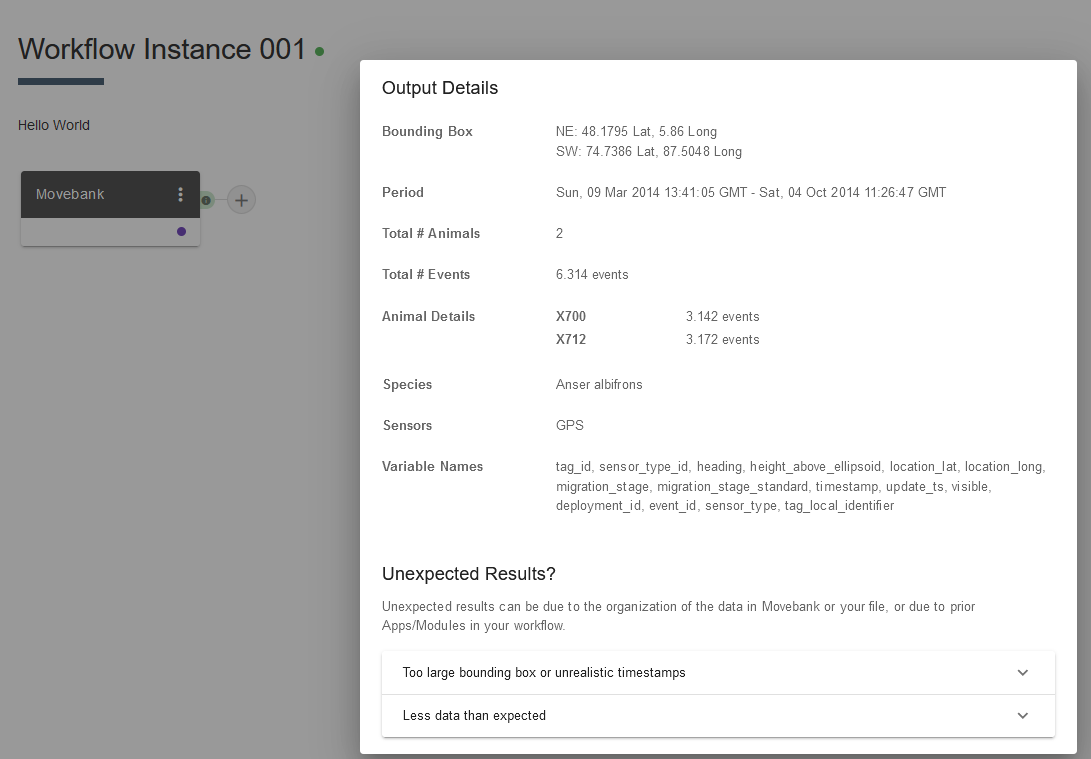
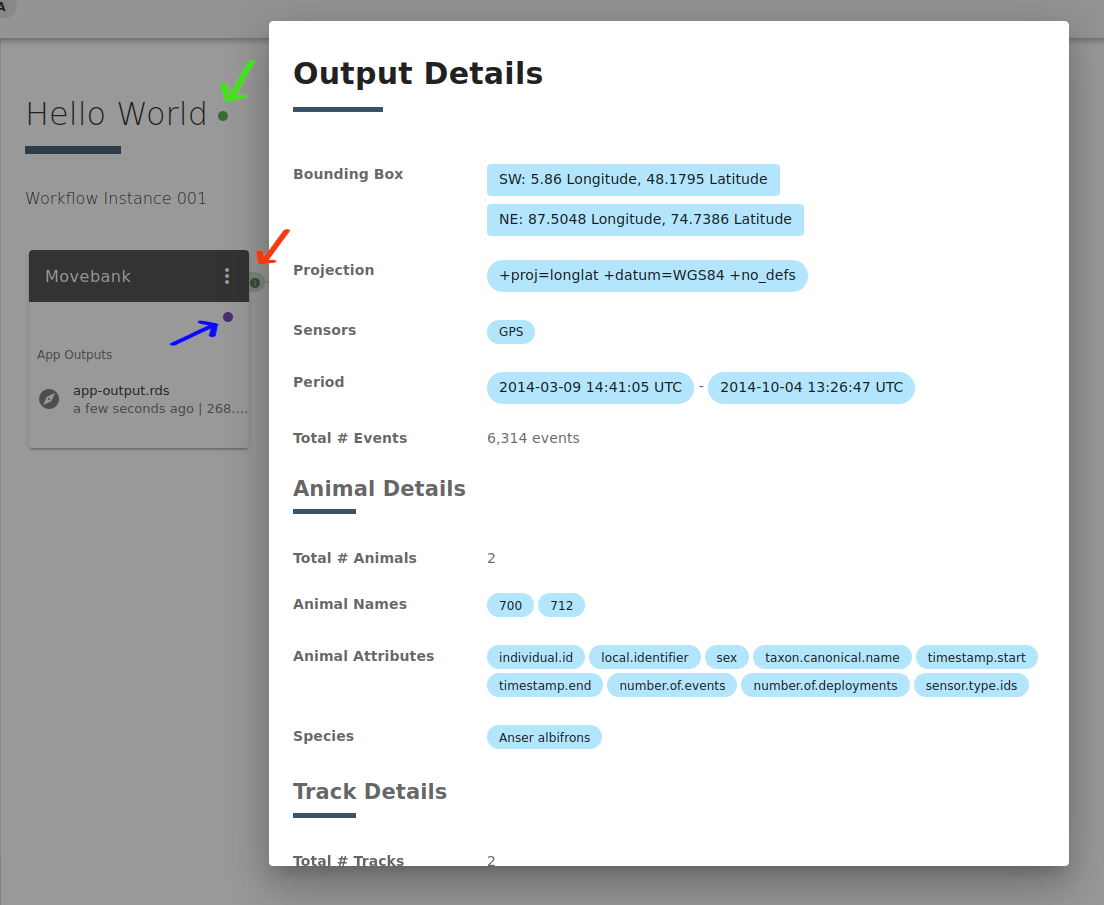
updating workflow manuals

Changed region(s): [[0.0, 0.0, 0.9973, 1.0], [0.0312, 0.3636, 0.0935, 0.3939], [0.1558, 0.3636, 0.187, 0.3939]]

diff --git a/create_workflow.md b/create_workflow.md
@@ -1,4 +1,4 @@
-# How to compile a Workflow
+# How to create a Workflow
 
 ![](../files/Workflow_example.png)
 
@@ -6,22 +6,22 @@ Within MoveApps, existing Apps can be combined into a Workflow, allowing you to 
 
 Every Workflow starts with an App that loads data into the system (e.g. from [Movebank](www.movebank.org) or Dropbox). The data are then passed on to the next App (in the appropriate format) and analysed by it accordingly. Every App requires a defined input type (presently only MOVEMENT (R move:moveStack) data: positions with date-timestamps and animal ID) and can pass on output of a defined type (presently MOVEMENT) or ends in an interactive UI (R-Shiny). 
 
-Some Apps produce output products, which can be downloaded as files, in formats such as .pdf or .csv. Movement output data can also be downloaded (in R format .rds).
+Some Apps produce output products, which can be downloaded as files, in formats such as .pdf or .csv. Movement output data can also be downloaded as a object of class `move::MoveStack' in R format .rds.
 
 ## Create a new Workflow
-From the main menu, select `Workflows` and then `Create New Workflow`. After providing a name for the Workflow, you will be asked to select a Data Source. Now choose to retreive data from either Movebank or your personal cloud storage on Google Drive or Dropbox. For the latter option the data have to be provided as MoveStacks in `.rds` format for R. Both Data Sources require that you specify parameters and settings. After providing these, the Workflow area with the initial App appears (see Figure below). Note that additional Data Sources can be downloaded by adding e.g. another instance of the Movebank download App (see below). All data sets will be combined, thus allowing the joined analysis of data from e.g. different Movebank studies.
+From the main menu, select `Workflows` and then `Create New Workflow`. After providing a name for the Workflow, you will be asked to select a Data Source. Now choose to retrieve data from either Movebank or your personal cloud storage on Google Drive or Dropbox. For the latter option the data have to be provided as a R object of class 'move::MoveStacks' saved as in a `.rds` format. Both Data Sources require that you specify parameters and settings. After providing these, the Workflow area with the initial App appears (see Figure below). Note that additional Data Sources can be downloaded by adding e.g. another instance of the Movebank download App (see below). All data sets will be combined, thus allowing the joined analysis of data from e.g. different Movebank studies.
 
 ![](../files/Workflow_movebank.png)
 
 ## Add Apps to a Workflow
-By clicking on the “+” to the rigth of an App, you can browse, search and select the next App to add to your Workflow for filtering, analysis or visualisation of the downloaded data. You can also insert Apps within the Workflow if they are compatible with the required input and output types (usually input: MOVEMENT and output: MOVEMENT). The list of Apps to choose from will only include those that comply with the required input and output types for the specific position in your Workflow. In the list of available Apps, you can see the descriptions of each App and can read additional information by clicking on “Details”. On the top right-hand corner, the list can be filtered by keywords.
+By clicking on the “+” to the right of an App, you can browse, search and select the next App to add to your Workflow for filtering, analysis or visualisation of the downloaded data. You can also insert Apps within the Workflow if they are compatible with the required input and output types (usually input: MOVEMENT and output: MOVEMENT). The list of Apps to choose from will only include those that comply with the required input and output types for the specific position in your Workflow. In the list of available Apps, you can see the descriptions of each App and can read additional information by clicking on “Details”. On the top right-hand corner, the list can be filtered by keywords.
 
 ![](../files/Workflow_addApp.png)
 
 ## Run the workflow
-Select `Start Workflow` to begin running the Apps within a Workflow in the order that you have arranged them. You can follow the progress of the Workflow by the change in colour of the action point in the bottom right of each App container. Note that there is not indication yet, when the workflow is finished, but the output files have become available.
+Select `Start Workflow` to begin running the Apps within a Workflow in the order that you have arranged them. You can follow the progress of the Workflow by the change in colour of the action point in the bottom right of each App container. On the right side of the Workflow name there is also a action point which will indicate if the workflow instance is "running" or "stopped". Note that if the workflow contains a Shiny App its status will always be "running", also after finishing, in order to allow the interaction with the App UI.
 
-The Workflow continues running even if you leave the site moveapps.org, and results can be looked up and downloaded later. Select `Rerun` or `Stop workflow` to interrupt the run of the Workflow. Each Workflow can also be [scheduled to run](scheduled_runs.md) regularely in an automatic mode at a fixed date and time. This option (`Schedule Instance`) can be selected in the menu next to `Start Workflow`.
+The Workflow continues running even if you leave the site moveapps.org, and results can be looked up and downloaded later. Select `Rerun` or `Stop workflow` to interrupt the run of the Workflow. Each Workflow can also be [scheduled to run](scheduled_runs.md) regularly in an automatic mode at a fixed date and time. This option (`Schedule Instance`) can be selected in the menu next to `Output`.
 
 
 ![](../files/Workflow_menu.png)
@@ -29,7 +29,7 @@ The Workflow continues running even if you leave the site moveapps.org, and resu
 ## Menus, Settings and Error logs
 There is a menu on the right of each App container in a Workflow. The R-Apps include the following options:
 
-	- Settings:  View or change App parameters.
+	- Settings: View or change App parameters.
 	- App Details: View all information and details about the App
 	- Pin to this App: By pinning the Workflow to an App, you will retain the results of this App and all Apps preceding it in the Workflow, so that only subsequent Apps are re-executed when you re-run the Workflow. The App you pinned and all preceding Apps are underlaid in grey. Note that Shiny-Apps close the running UI if pinned, but retain the output data. The `Pin` can be removed any time by clicking on `unpin` below in the greyed out area.
 	- Update App: If a new version of the App is available it can be updated here.
@@ -40,7 +40,7 @@ There is a menu on the right of each App container in a Workflow. The R-Apps inc
 ![](../files/App_Pin.png)
 
 ## Output download menu
-Next to the Run Workflow button, you can access all output files that the Workflow is generating. The .rds data output files of each App can be downloaded separately as well as all by the Apps created productss. In case of one or more .pdf products, it is also possible to download a bundled pdf, unsecured or as encrypted file for sensitive tracking data (see buttons on top right).
+The `Output` button gives you access to all output files that the Workflow is generating. The .rds data output files of each App can be downloaded separately as well as all the created products by the Apps. In case of one or more .pdf products, it is also possible to download a bundled pdf, unsecured or as encrypted file for sensitive tracking data (see buttons on top right).
 
 Note that it is possible to select products from Apps for inclusion in E-mail attachments (see [scheduling](scheduled_runs.md)). At the top of the page, you can access our [API service](scheduled_runs.md#Access) that allows to create a stable http link to any of the products created by the workflow.
 
@@ -48,20 +48,27 @@ Note that it is possible to select products from Apps for inclusion in E-mail at
 ![](../files/output_save_view.png)
 
 ## Data overview of App output
-Each App that returns data creates a short summary of the output data, which can be accessed via the green info button that appears on the right side of the App container. This summary includes the bounding box and time range of the positions as well as the number of animals, the total number of positions (events) and the number of positions for each individual animal. It provides a list of the animals' species and tag sensors. Finally, the names of all available data variables (that provide any non-empty data) are listed. Note the seciong "Unexpected Results?" at the bottom that provides helpful comments if errors occur.
+Each App that returns data creates a summary of the output data, which can be accessed via the green info button that appears on the right side of the App container. This summary includes the bounding box, projection, sensors and time range of the data as well as the total number positions (events). There is one section about the animal details including the animal names ant the available attributes associated to the individuals, and another section about the track details including the locations per track and available attributes associated to each location of the tracks. Note the section "Unexpected Results?" at the bottom that provides helpful comments if errors occur.
 
 ![](../files/CargoAgent_Overview.png)
 
 ## Shiny R and User Interfaces
-For R-Shiny Apps that return User Interfaces (UI), the UI can be accessed after the run of the Workflow via `Open Results` or via `Shiny UI` in the App menu. There, you can examine results and edit settings, depending on the options that the App developer has programmed. There are also R-Shiny Apps that have output data (Movement) and the UI is used e.g. to filter the data. For such Apps, the UI can only be accessed via `Shiny UI` in the App menu.
+For R-Shiny Apps that return User Interfaces (UI), the UI can be accessed after the run of the Workflow via `Open App UI`. There, you can examine results and edit settings, depending on the options that the App developer has programmed. On the bottom left corner of each Shiny App the button `Store configuraton` will store the current settings of the app for future workflow runs. **NOTE: currently the `Store configuration` option is not available or working for all Shiny Apps. We are working on fixing this issue.**
 
 ![](../files/App_menu_shiny.png)
 
 ## Workflow Instances
 Each Workflow can be run and saved in several Instances, allowing you to combine the same Apps in the same order, but with different settings. It is important to note that changes in the selection and order of Apps (not their settings) in one Workflow Instance will be applied to all other Instances of the Workflow.
 
-Every additional Workflow Instance must be initialised in the Workflow overview (via the main menu) of the respective Workflow by clicking `Start new Instance`. In the menu of each Instance you can adapt the description of the Workflow (`Edit Workflow Instance Details`) and the Instance can be deleted. 
+Every additional Workflow Instance must be initialised in the Workflow overview (via the main menu) of the respective Workflow by clicking `Start new Instance`. In the menu of each Instance you can adapt the description of the Workflow (`Edit Instance`) and the Instance can be deleted. 
+
+Once a Instance of a Workflow is opened, one can switch between all instances of the workflow through the menu on the top left side. To select another Workflow, use the button `Workflows`.
+
+![](../files/Workflow_Instance.png)
+
+## Organizing Workflows
+Workflows can be grouped by assigning them a category name. If no category is assigned, they will appear under "Uncategorized". At any time categories, workflows and instances can be edited, and workflows can be shared or published via the Workflow overview page.
+
 
 ![](../files/Workflow_start.png)
-
 

diff --git a/hello_world_workflow.md b/hello_world_workflow.md
@@ -3,7 +3,7 @@
 Please follow the instructions below and create your first running Workflow on MoveApps. Once you have registered in MoveApps, you can start.
 
 ## Download your data from Movebank
-From the main menu, select `Workflows` and then `Create New Workflow`. After providing a name for the Workflow, you will be asked to select a Data Source. Choose Movebank and provide your Movebank login details. In a succession of settings windows you can select a study from which you have access to download data, select individual animals, a time window of required data and an option how to deal with duplicate loations. 
+From the main menu, select `Workflows` and then `Create New Workflow`. After providing a name for the Workflow, you will be asked to select a Data Source. Choose Movebank and provide your Movebank login details. In a succession of settings windows you can select a study from which you have access to download data, select individual animals, a time window of required data and an option how to deal with duplicate locations. 
 
 ![](../files/HelloWorld_selectDataSource.png)
 
@@ -11,18 +11,18 @@ For this example let us select the public study `Migration timing in white-front
 
 ![](../files/HelloWorld_selectStudy.png)
 
-If you like, go ahead and click on `Start Workflow` on the top right and, after the run is finished, explore the downloaded data in the `Cargo Agent`, which can be accessed via the small green circle appearing on the right side of the App Container once the run is finished. Explore the coloured dots (by hovering over them) that indicate the status of each App's performance.
+If you like, go ahead and click on `Start Workflow` on the top right and, after the run is finished, explore the downloaded data in the `Cargo Agent`, which can be accessed via the small green circle appearing on the right side of the App Container (red arrow) once the run is finished. Explore the coloured dots (by hovering over them) that indicate the status of each App's performance (blue arrow). On the right side of the Workflow name there is also a action point which will indicate if the workflow instance is "running" or "stopped" (green arrow). Note that if the workflow contains a Shiny App its status will always be "running", also after finishing, in order to allow the interaction with the App UI.
 
 ![](../files/HelloWorld_MoveApps_CargoAgent.png)
 
 ## Plot your positions in a Shiny User Interface
-Now click on the `+` next to the first App Container to select an App that would analyse or visualise the downloaded data. Let us stay simple and select the visualisaiton App `Simple Map`. There is a single variable that has to be configured, namely the edge size of area surrounding the locations on the map. Select `1` for now, this parameter can also be adapted in the UI directly. Now you can `Start Workflow` and `Open Results` once everything has finished. To reduce run time you can `Pin to this App` in the Movebank App, which will block it from running again, in case you have let it run before.
+Now click on the `+` next to the first App Container to select an App that would analyse or visualise the downloaded data. Let us stay simple and select the visualisaiton App `Simple Map`. There is a single variable that has to be configured, namely the edge size of area surrounding the locations on the map. Select `1` for now, this parameter can also be adapted in the UI directly. Now you can `Start Workflow` and `Open App UI` once everything has finished. To reduce run time you can use `Pin to this App` in the Movebank App, which will block it from running again, in case you have let it run before.
 
 ![](../files/HelloWorld_addMap.png)
-![](../files/HelloWorld_OpenResults.png)
+![](../files/HelloWorld_OpenAppUI.png)
 
-`Open Results` opens a Shiny User Interface that provides you with a visulisation of the downloaded locations, different colours per ID and coastlines around for orientation. This is a very simple, but quick way if having a look at your data. Congratulations, this is your first Workflow. Hello World!
+`Open App UI` opens a Shiny User Interface that provides you with a visualisation of the downloaded locations, different colours per ID and coastlines around for orientation. This is a very simple, but quick way if having a look at your data. Congratulations, this is your first Workflow. Hello World!
 
 ![](../files/HelloWorld_SimpleMap.png)
 
-Go ahead and also explore what you can download and access from the App Container Menu or the Workflow Menu (just next to the `Run Workflow` button). See the [Create a Workflow tutorial](create_workflow.md) for more details.
+Go ahead and also explore what you can download and access from the App Container Menu or the Workflow Menu (just next to the `Output` button). See the [How to create a Workflow](create_workflow.md) for more details.

diff --git a/copilot-shiny-sdk.md b/copilot-shiny-sdk.md
@@ -151,7 +151,7 @@ shinyModule <- function(input, output, session, username, password, data) {
 ```
 
 ## Integrate Shiny Apps into an automatic Workflow
-Shiny Apps can also be integrated into an automatic Workflow without the user having to interact with the App directly. This allows the Workflow to run automatically without interruptions. A "`Store configuration`" button will always appear on the bottom left side of the Shiny App which the user can use to store the final settings of the Shiny App that should be used in the workflow.
+Shiny Apps can also be integrated into an automatic Workflow without the user having to interact with the App directly. This allows the Workflow to run automatically without interruptions. A "`Store configuration`" button will always appear on the bottom left side of the Shiny App which the user can use to store the final settings of the Shiny App that should be used in the workflow. **NOTE: currently the `Store configuration` option is not available or working for all Shiny Apps. If parameters are not set through the `appspec` and `shinyModuleConfiguration` (see above), the configuration cannot be currently stored for future runs of the workflow. We are working on fixing this issue.**
 
 ### Input
 The same requirements apply to the input as already described above [(Input from the previous App)](copilot-shiny-sdk#input-predecessor-app).

diff --git a/_sidebar.md b/_sidebar.md
@@ -3,7 +3,7 @@
   - [How to create your own App](create_app.md)
   - [Manage your Apps with GitHub and Rstudio](manage_app_github.md)
   - [Hello world! Your first Workflow](hello_world_workflow.md)
-  - [How to compile a Workflow](create_workflow.md)
+  - [How to create a Workflow](create_workflow.md)
 
 - Reference
   - SDK (software development kit)
